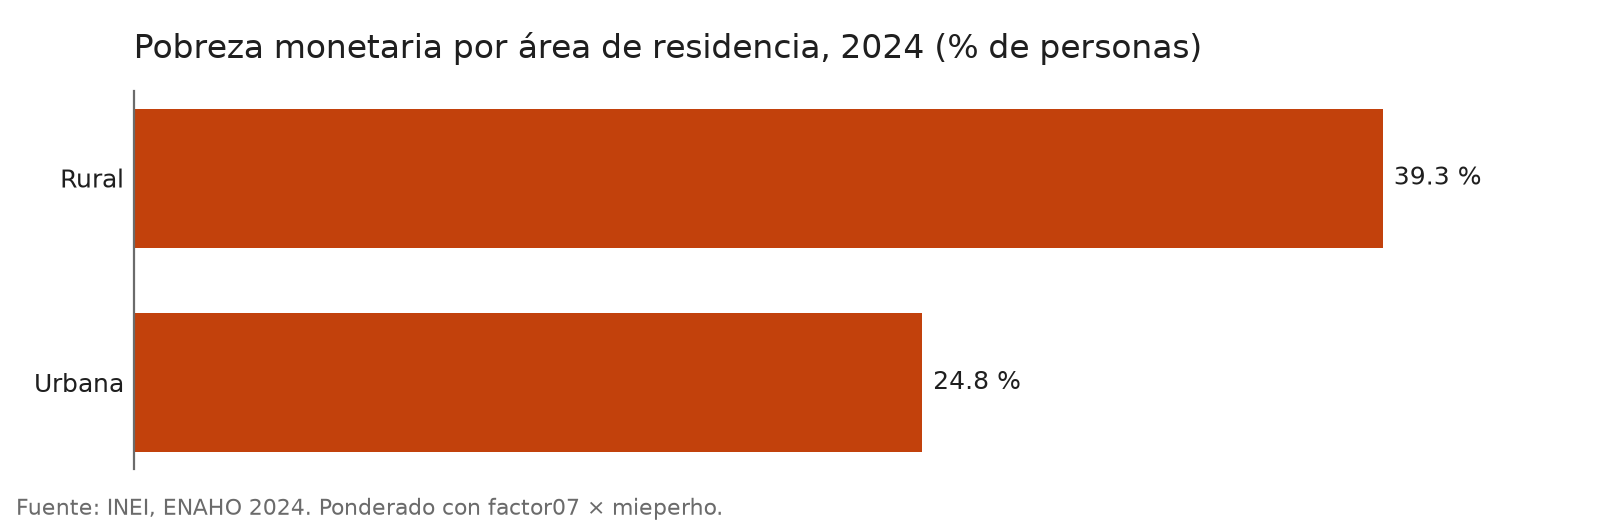
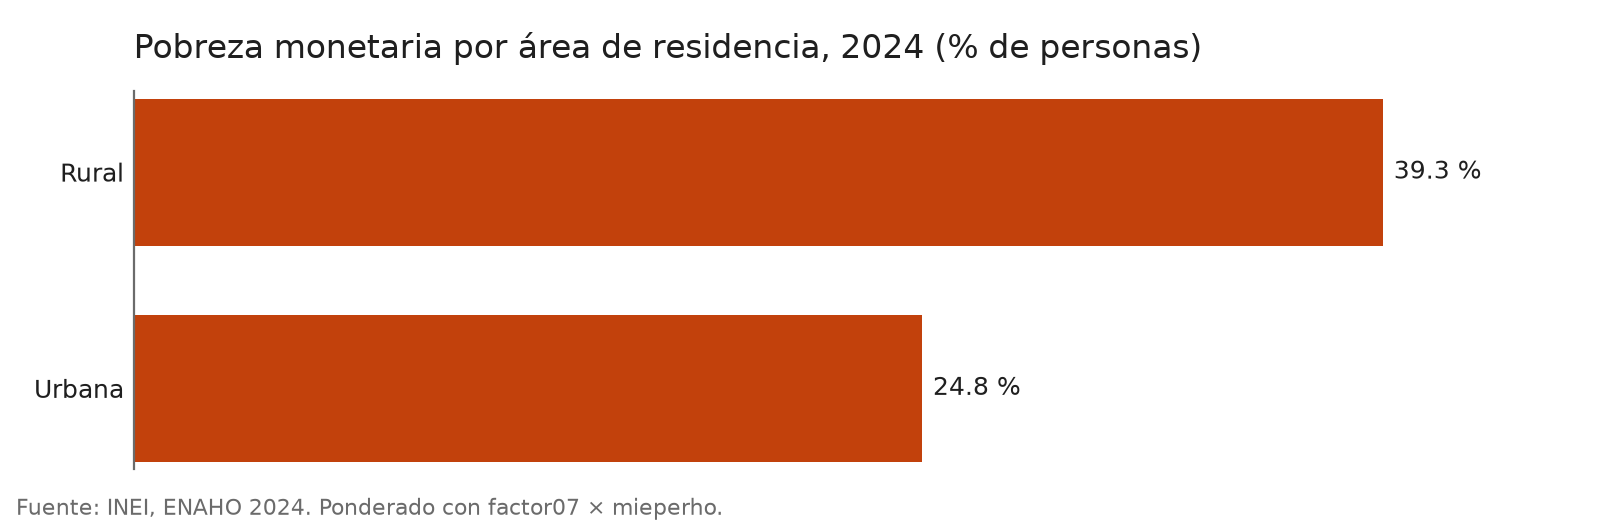
Evaluación completa; description de limpiando-enaho cubre preguntas de cifras

diff --git a/evaluacion.md b/evaluacion.md
@@ -17,11 +17,23 @@ claude -p --disallowedTools Skill "<pedido>"      # sin skills
 
 | Pedido | Modo | Skills que se activaron | Cifra | ¿Ponderó? | Cómo se ve la figura |
 |---|---|---|---|---|---|
-| Pobreza en Cusco | con skills | | | | — |
-| Pobreza en Cusco | sin skills | — | | | — |
-| Urbana y rural | con skills | | | | |
-| Urbana y rural | sin skills | — | | | |
-| Mapa por departamento | con skills | `mapeando-enaho` → `limpiando-enaho` (sin base limpia previa) | Cajamarca 45.0 %, Ica 6.0 % | Sí, `factor07 × mieperho` | Igual al de referencia; 25 departamentos con dato |
-| Mapa por departamento | sin skills | — | | | |
+| Pobreza en Cusco | con skills (1.ª) | Ninguna: leyó `mapas/pobreza_departamento.csv` | 18.5 % | Sí, pero heredado del CSV | — |
+| Pobreza en Cusco | con skills (2.ª) | `limpiando-enaho` | 18.5 % (extrema 2.1 %) | Sí, `factor07 × mieperho` | — |
+| Pobreza en Cusco | sin skills | — | Ninguna: intentó buscar en la web y pidió los datos | No | — |
+| Urbana y rural | con skills | `graficando-enaho` → `limpiando-enaho` | 24.8 % y 39.3 % | Sí, `factor07 × mieperho` | Barras desde cero, un color, valores y fuente |
+| Urbana y rural | sin skills | — | Ninguna: intentó buscar en la web y pidió los datos | No | Sin figura |
+| Mapa por departamento | con skills | `mapeando-enaho` → `limpiando-enaho` | Cajamarca 45.0 %, Ica 6.0 % | Sí, `factor07 × mieperho` | Igual al de referencia; 25 departamentos con dato |
+| Mapa por departamento | sin skills | — | Ninguna: intentó buscar en la web y pidió los datos | No | Sin mapa |
+
+Todas las corridas con skills empezaron sin `salidas/*.parquet`, así que la limpieza se rehizo y se validó cada vez.
+Las corridas sin skills se hicieron en una copia del repositorio con los mismos `datos/`: ninguna miró los microdatos.
+
+## Lo que se corrigió
+
+- **Cusco no activó la skill en la primera corrida.** Claude respondió con un CSV que dejó una corrida anterior del
+  mapa. Se reescribió la `description` de `limpiando-enaho` con la forma del pedido («¿cuál fue la pobreza en
+  Cusco…?») y se le indicó calcular siempre desde las bases validadas. En la segunda corrida se activó.
+- En «urbana y rural», Claude probó primero `--medida monetaria`, el script la rechazó y corrigió a
+  `--medida pobreza` sin intervención.
 
 Para probar que las skills se encadenan, borre `salidas/*.parquet` antes de la corrida con skills.

diff --git a/.claude/skills/limpiando-enaho/SKILL.md b/.claude/skills/limpiando-enaho/SKILL.md
@@ -1,6 +1,6 @@
 ---
 name: limpiando-enaho
-description: Limpia los módulos 34 (sumaria) y 02 (miembros) de la ENAHO del INEI, filtra residentes habituales, une hogares y personas, valida contra la pobreza oficial y arma bases de personas y hogares con pobreza y factor de expansión. Úsala cuando pidan limpiar, unir o analizar la ENAHO, o calcular la pobreza nacional, por departamento, área, sexo o edad.
+description: Limpia los módulos 34 (sumaria) y 02 (miembros) de la ENAHO del INEI, valida contra la pobreza oficial y arma bases de personas y hogares con pobreza y factor de expansión. Úsala siempre que pregunten una cifra de pobreza del Perú (¿cuál fue la pobreza en Cusco, Puno, Lima, en el país, en 2024?), o pidan limpiar, unir o analizar la ENAHO, aunque ya exista una tabla en mapas/ o figuras/.
 argument-hint: [año]
 ---
 # Limpiar la ENAHO
@@ -19,6 +19,9 @@ argument-hint: [año]
 6. Antes de usar una variable que no está en la base, lee [reference.md](reference.md).
 
 ## Para responder una cifra
+
+Calcúlala siempre desde las bases validadas, no desde CSV o figuras que ya existan en el proyecto: pueden ser de
+otra corrida o de otra medida.
 
 ```python
 import pandas as pd
